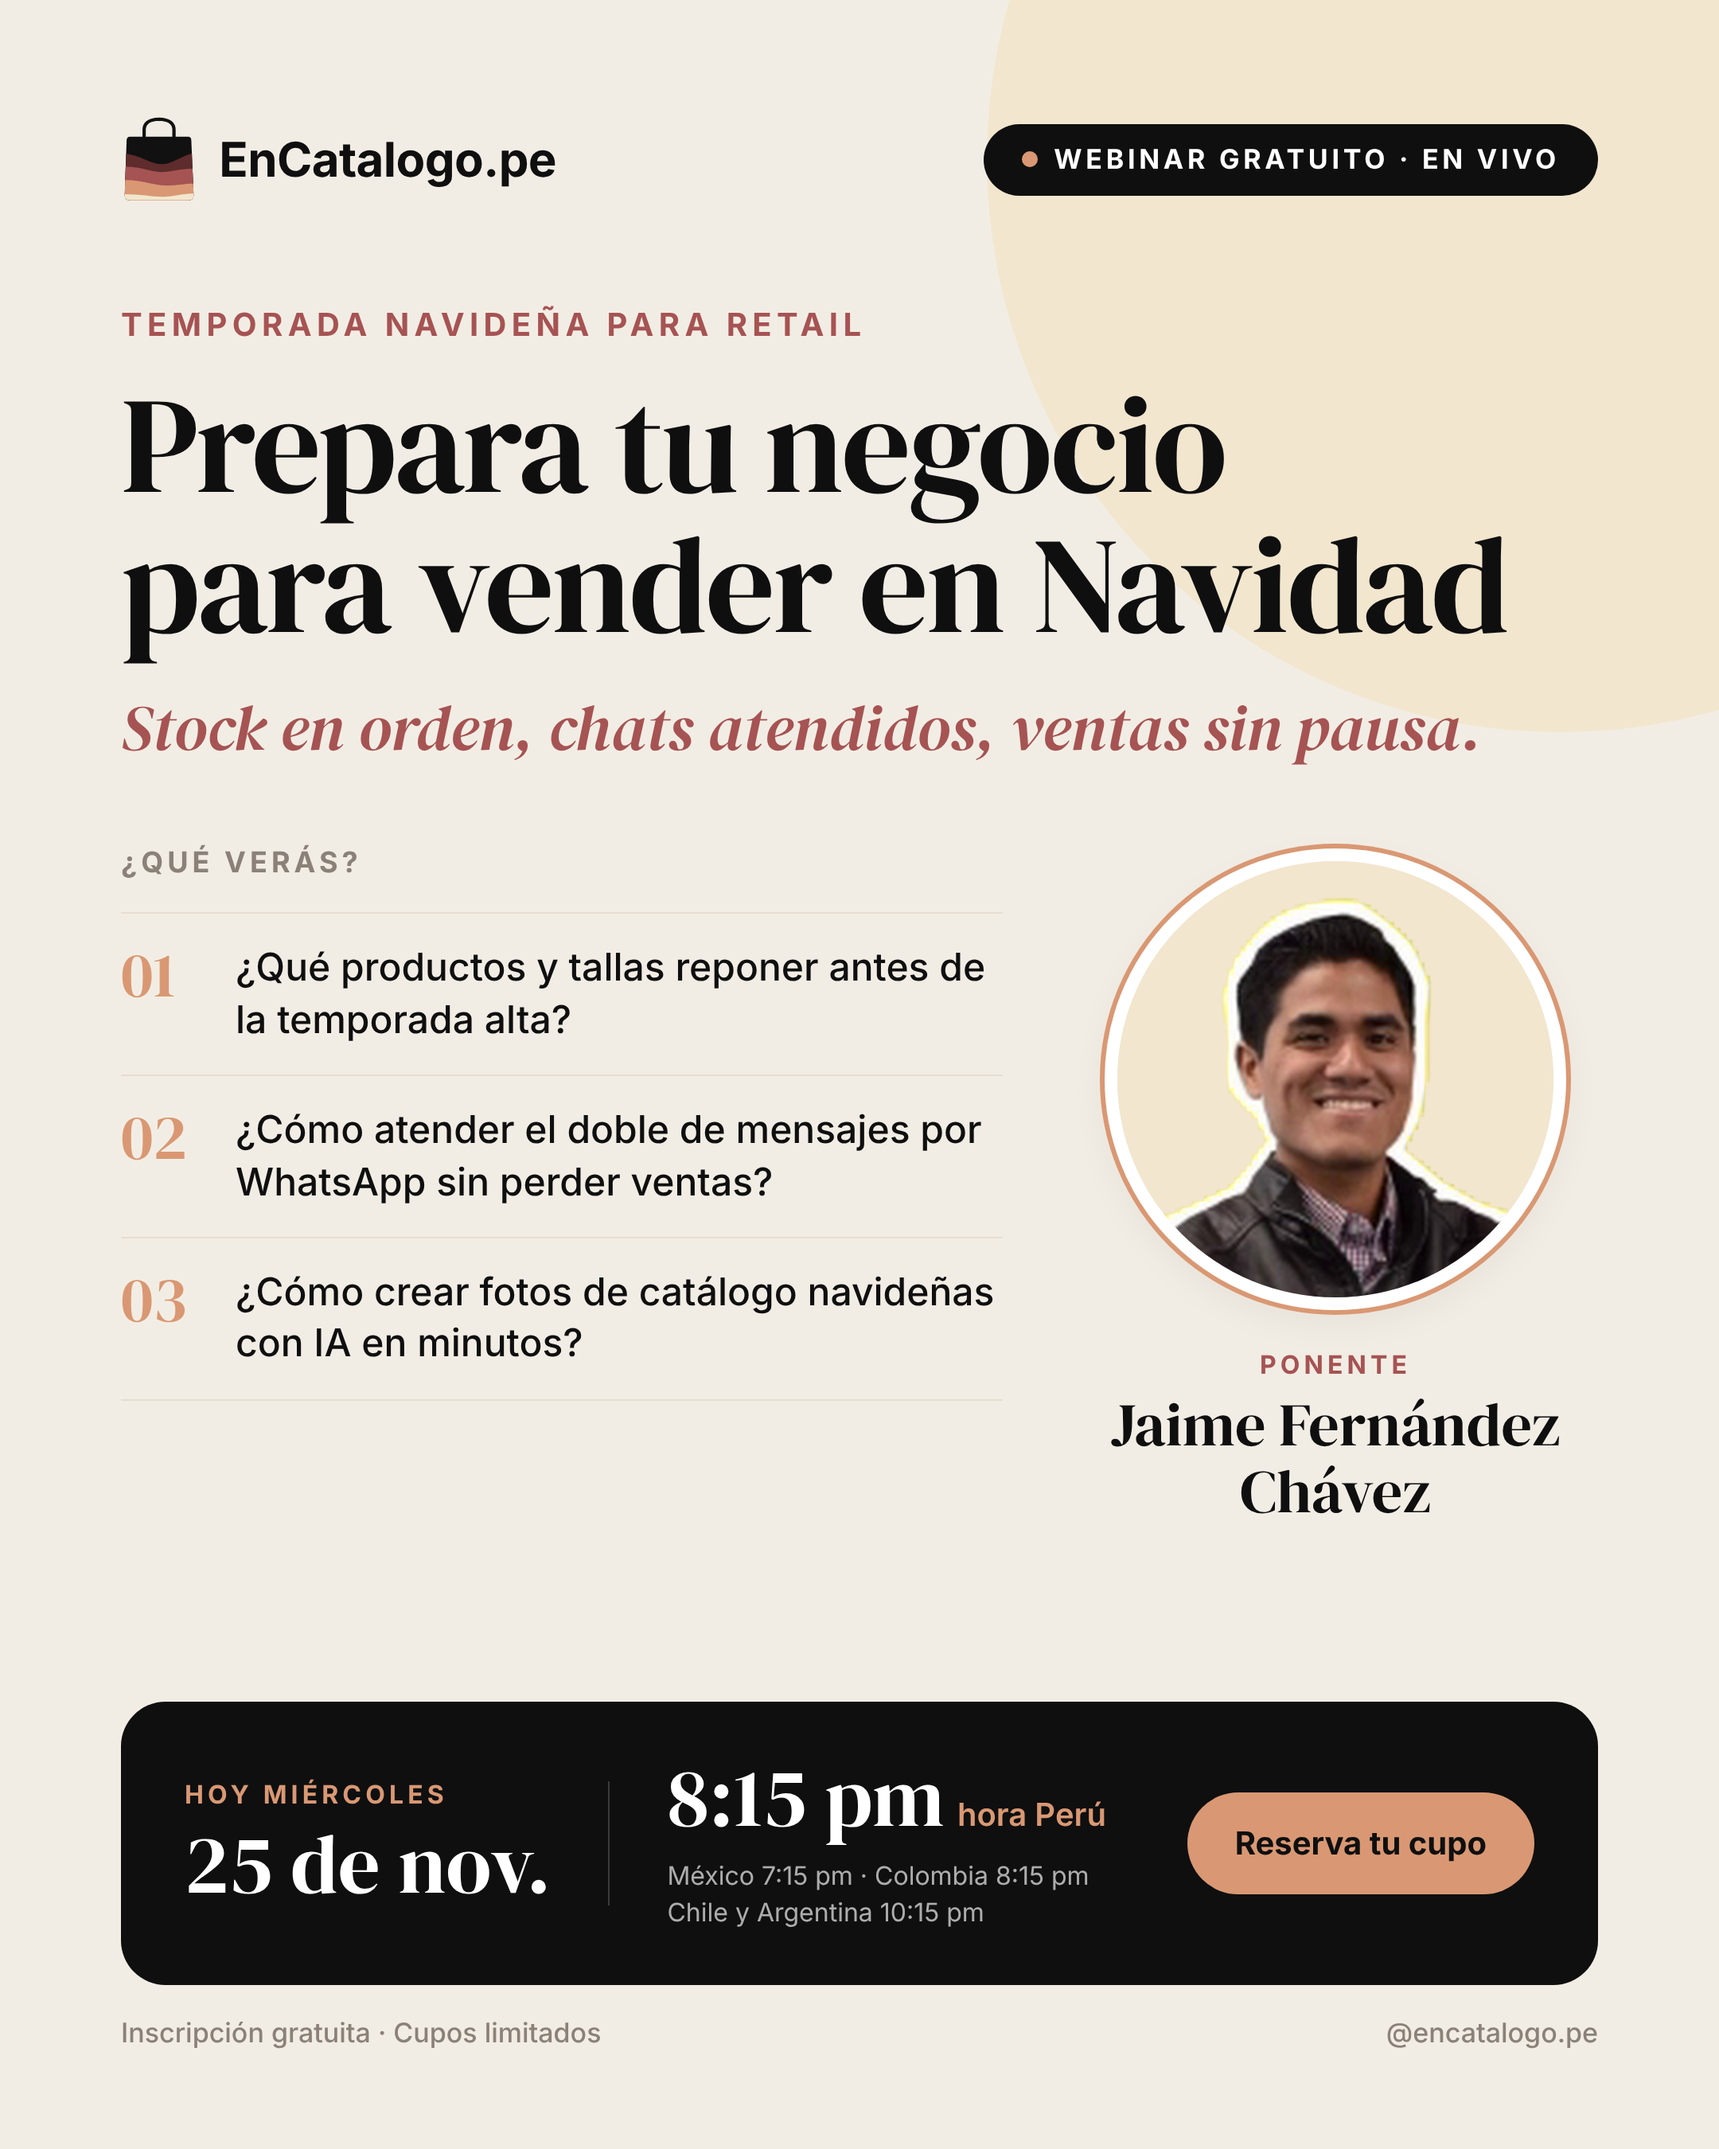
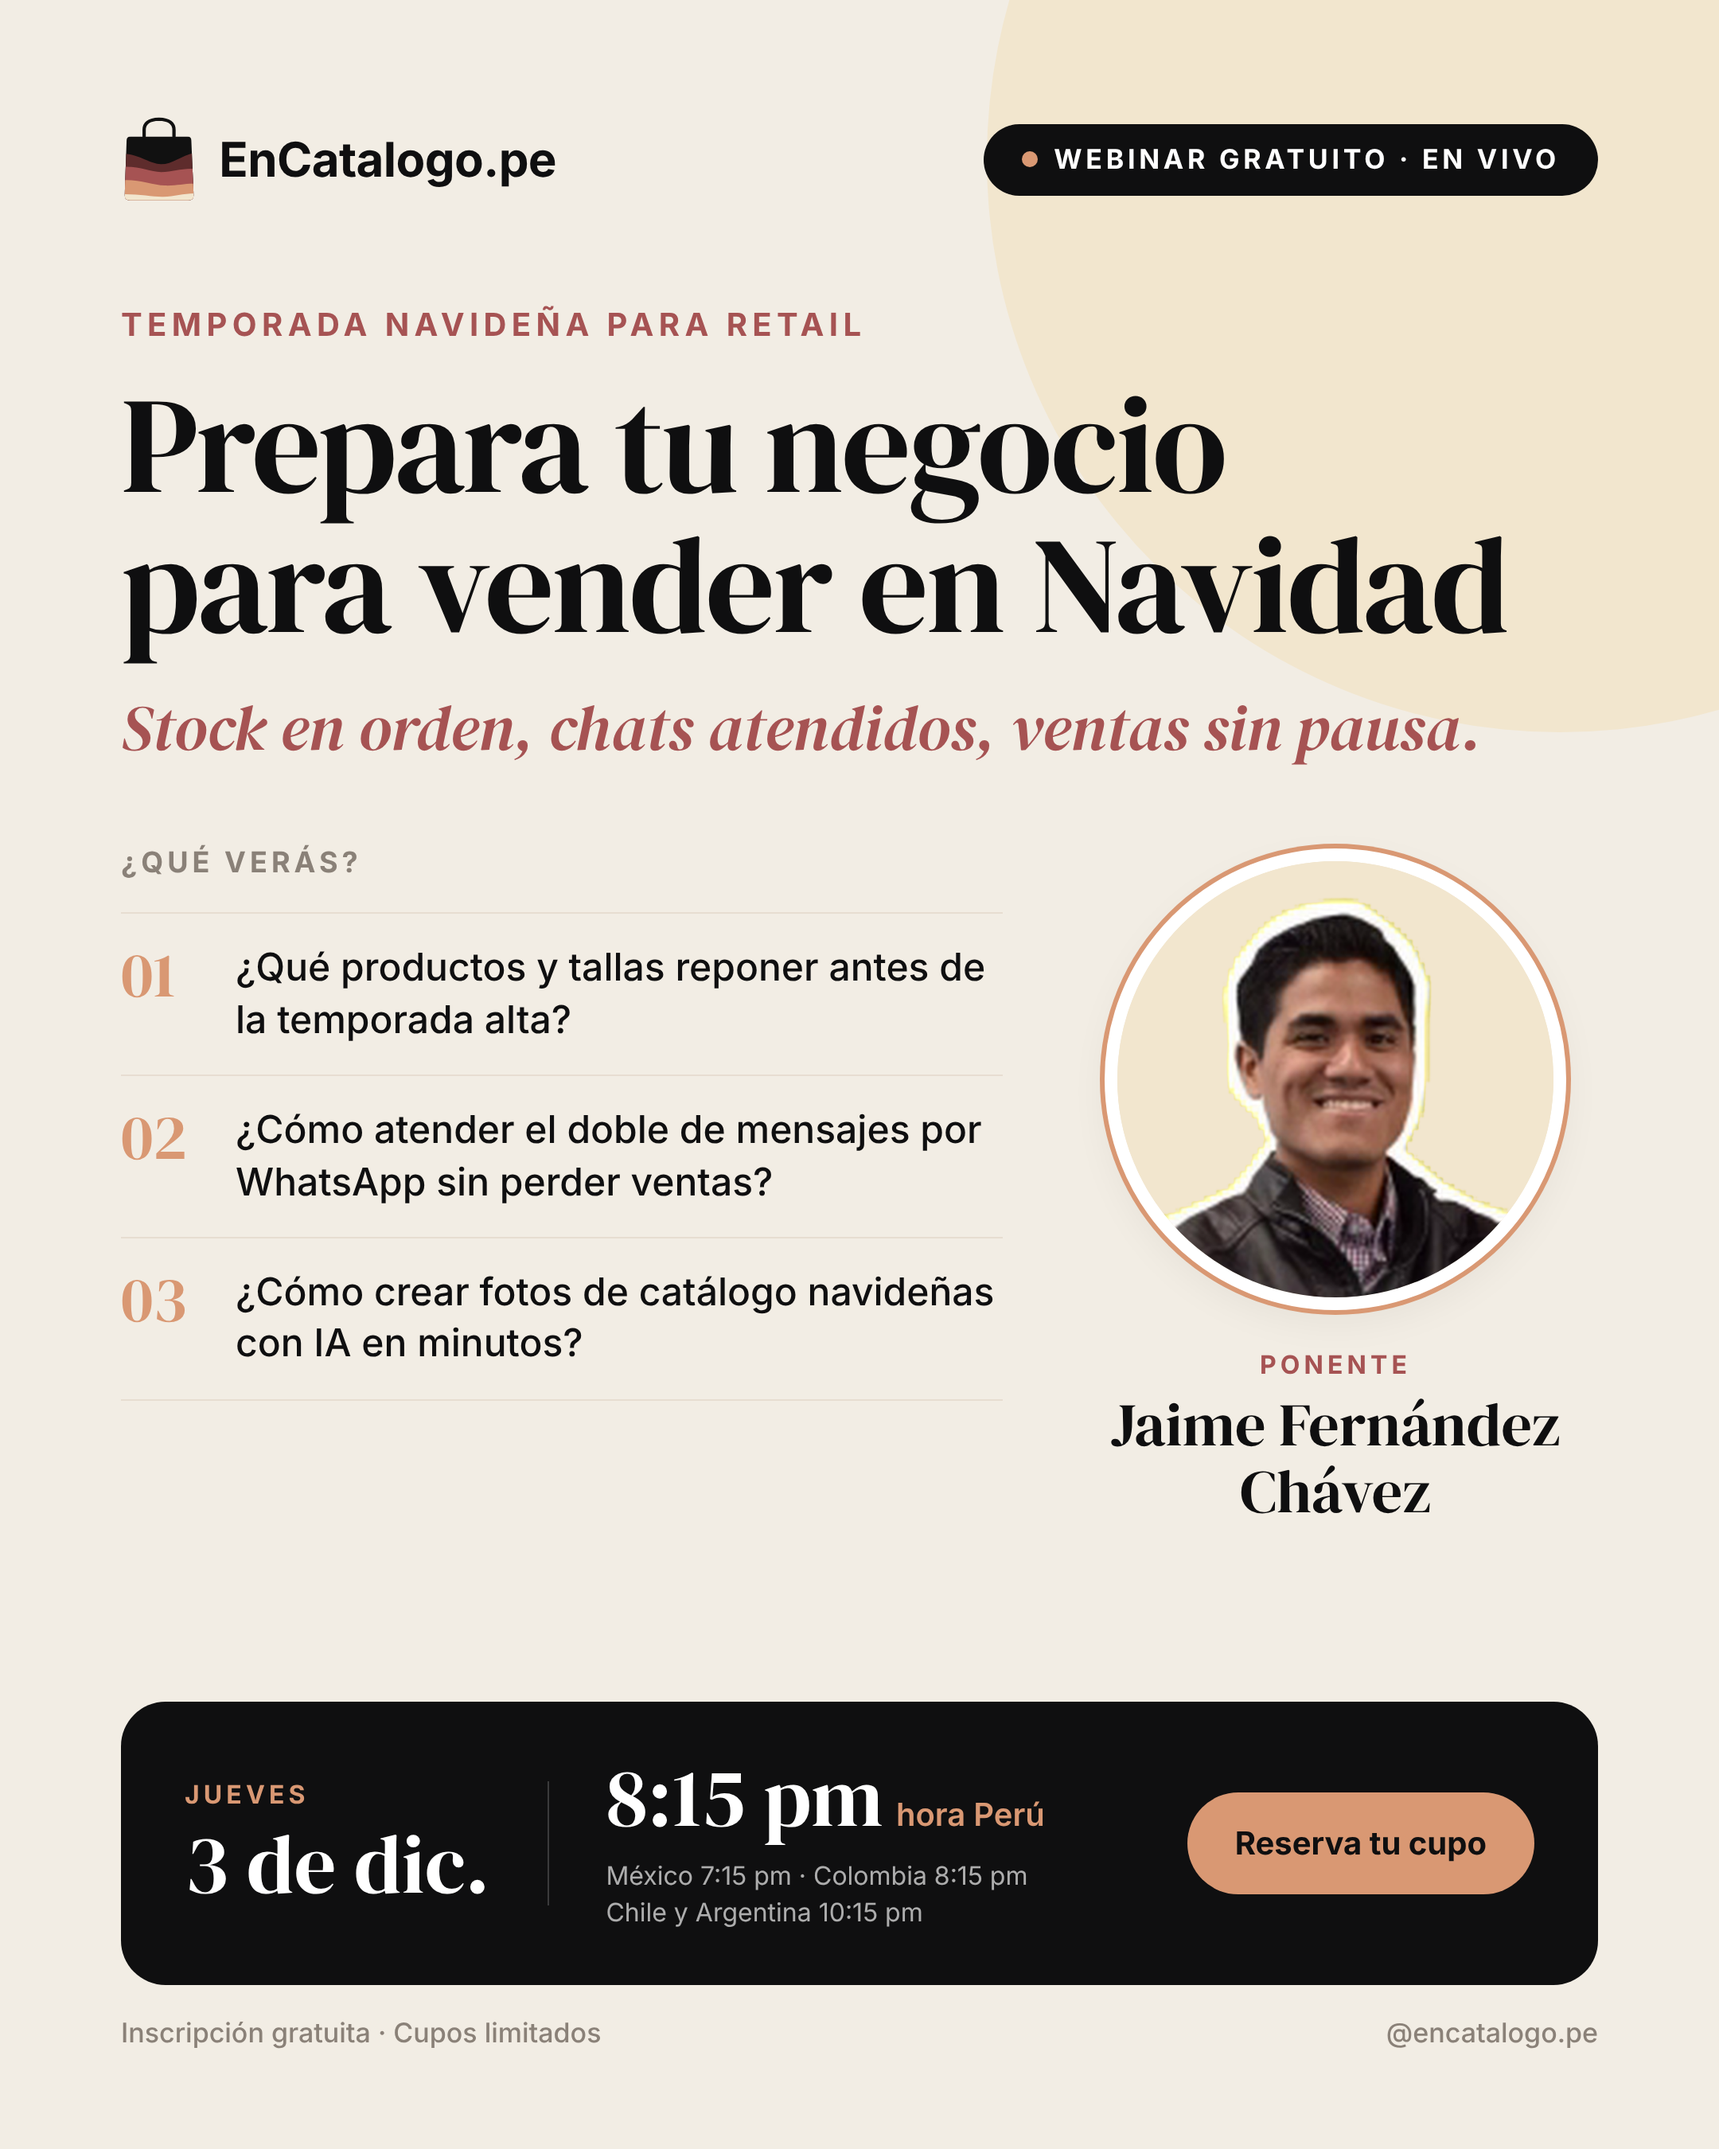
Webinars: Navidad pasa al jueves 3 dic y Del chat al pago al miércoles 9 dic
Claude-Session: https://claude.ai/code/session_013TcxtorVcswT8d55UEdvDD

Changed region(s): [[0.3412, 0.8089, 0.6514, 0.9022], [0.0931, 0.8089, 0.3102, 0.9022]]

diff --git a/flyers/webinar-navidad/flyer.html b/flyers/webinar-navidad/flyer.html
@@ -88,7 +88,7 @@
   </div>
 
   <div class="when">
-    <div class="date"><small>Hoy miércoles</small><strong>25 de nov.</strong></div>
+    <div class="date"><small>Jueves</small><strong>3 de dic.</strong></div>
     <div class="time">
       <strong>8:15 pm<span>hora Perú</span></strong>
       <p>México 7:15 pm · Colombia 8:15 pm<br>Chile y Argentina 10:15 pm</p>

diff --git a/flyers/webinar-vende-diciembre/flyer.html b/flyers/webinar-vende-diciembre/flyer.html
@@ -88,7 +88,7 @@
   </div>
 
   <div class="when">
-    <div class="date"><small>Miércoles</small><strong>2 de dic.</strong></div>
+    <div class="date"><small>Miércoles</small><strong>9 de dic.</strong></div>
     <div class="time">
       <strong>8:15 pm<span>hora Perú</span></strong>
       <p>México 7:15 pm · Colombia 8:15 pm<br>Chile y Argentina 10:15 pm</p>

diff --git a/flyers/webinar-navidad/copys.md b/flyers/webinar-navidad/copys.md
@@ -1,11 +1,11 @@
 # Copys · Prepara tu negocio para vender en Navidad
 
-Miércoles 25 de noviembre · 8:15 pm (hora Lima) · Ponente: Jaime Fernández Chávez
+Jueves 3 de diciembre · 8:15 pm (hora Lima) · Ponente: Jaime Fernández Chávez
 
 ## ¿Qué va en Luma?
 
 Nombre del evento: **Prepara tu negocio para vender en Navidad · Webinar gratuito**
-Fecha y hora: 25 de noviembre, 8:15 pm · zona horaria **America/Lima**
+Fecha y hora: 3 de diciembre, 8:15 pm · zona horaria **America/Lima**
 
 ```
 ¿Tu tienda está lista para la temporada más fuerte del año? ¿Sabes qué productos y tallas se te van a acabar primero?
@@ -22,7 +22,7 @@ En diciembre los mensajes se multiplican, el stock se mueve rápido y cada venta
 
 - Marcas y tiendas de retail que se preparan para la campaña navideña (moda, accesorios, regalos, hogar y más).
 - Negocios cuyos clientes compran o preguntan por WhatsApp.
-- Emprendedores que quieren llegar a diciembre con el stock y el catálogo en orden.
+- Emprendedores que quieren vender en diciembre con el stock y el catálogo en orden.
 
 ## Ponente
 
@@ -30,7 +30,7 @@ En diciembre los mensajes se multiplican, el stock se mueve rápido y cada venta
 
 ## Detalles
 
-- 📅 Miércoles 25 de noviembre
+- 📅 Jueves 3 de diciembre
 - ⏰ 8:15 pm hora Perú (7:15 pm México · 8:15 pm Colombia · 10:15 pm Chile y Argentina)
 - 💻 Online y en vivo. Recibirás el enlace al registrarte.
 - ✅ Gratuito · Cupos limitados

diff --git a/flyers/webinar-vende-diciembre/copys.md b/flyers/webinar-vende-diciembre/copys.md
@@ -1,11 +1,11 @@
 # Copys · Del chat al pago: vende más en diciembre
 
-Miércoles 2 de diciembre · 8:15 pm (hora Lima) · Ponente: Jaime Fernández Chávez
+Miércoles 9 de diciembre · 8:15 pm (hora Lima) · Ponente: Jaime Fernández Chávez
 
 ## ¿Qué va en Luma?
 
 Nombre del evento: **Del chat al pago: vende más en diciembre · Webinar gratuito**
-Fecha y hora: 2 de diciembre, 8:15 pm · zona horaria **America/Lima**
+Fecha y hora: 9 de diciembre, 8:15 pm · zona horaria **America/Lima**
 
 ```
 ¿Tus clientes preguntan por WhatsApp, piden fotos y precios… y luego desaparecen? ¿Pasas horas confirmando pagos de Yape y Plin a mano?
@@ -30,7 +30,7 @@ Un chatbot contesta lo que le preguntan. Un vendedor recomienda, envía fotos y 
 
 ## Detalles
 
-- 📅 Miércoles 2 de diciembre
+- 📅 Miércoles 9 de diciembre
 - ⏰ 8:15 pm hora Perú (7:15 pm México · 8:15 pm Colombia · 10:15 pm Chile y Argentina)
 - 💻 Online y en vivo. Recibirás el enlace al registrarte.
 - ✅ Gratuito · Cupos limitados
